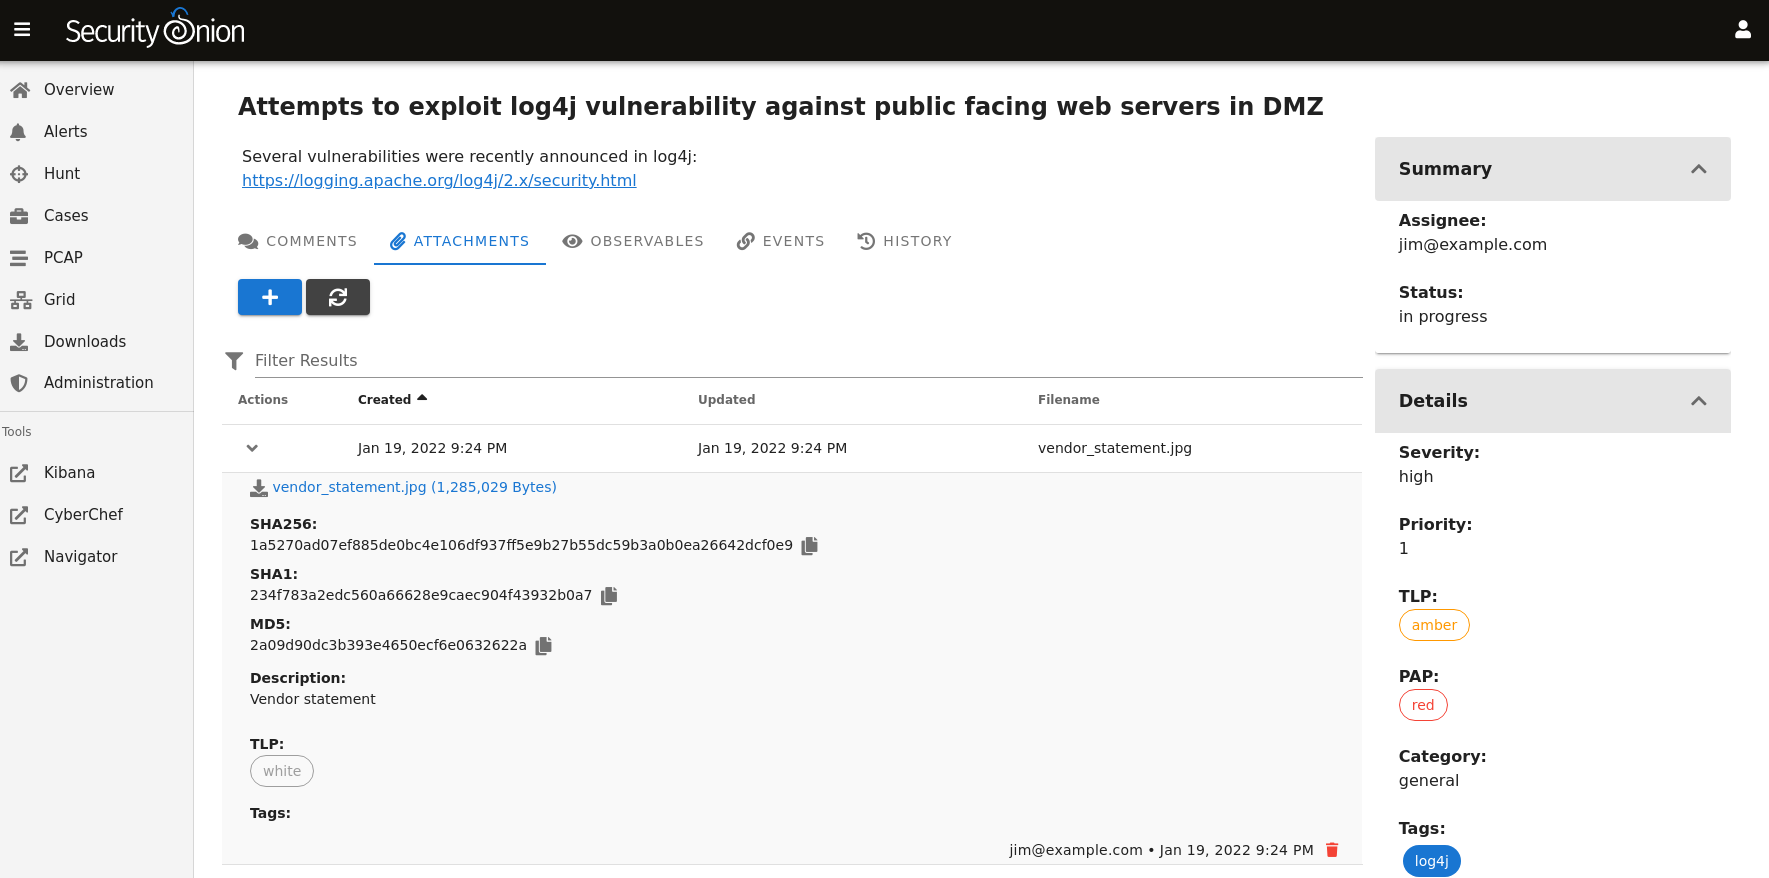
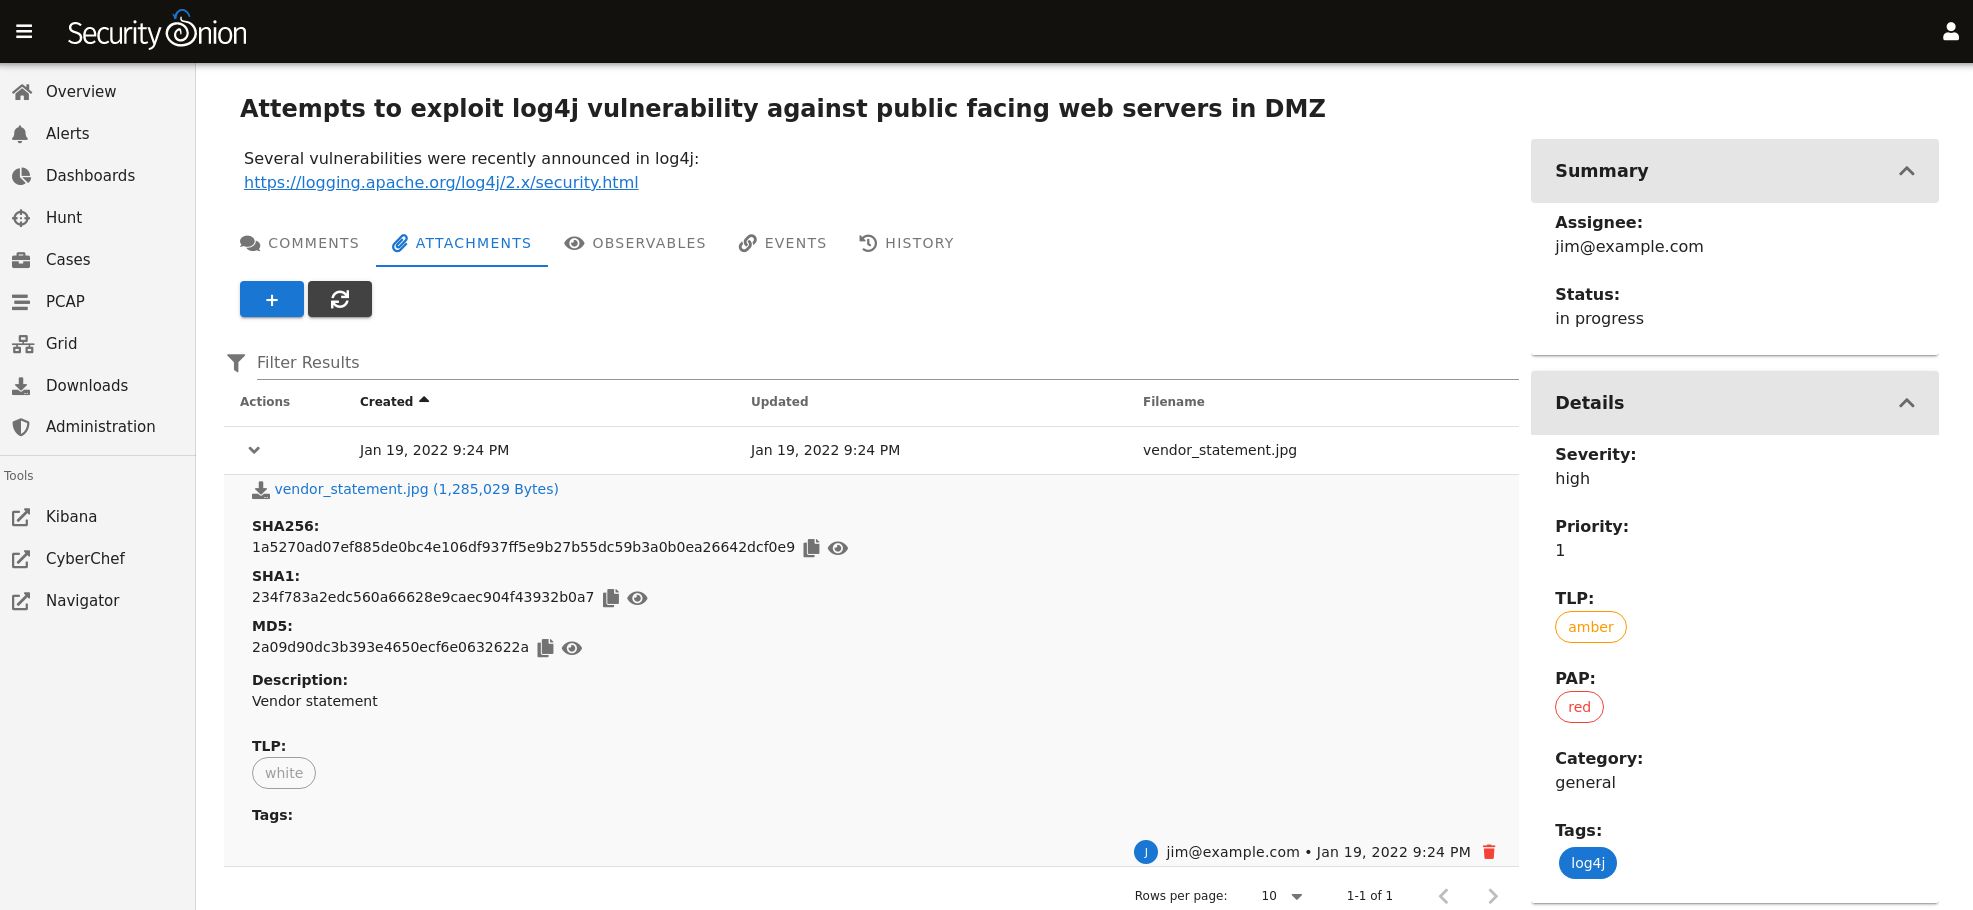
update for 2.3.130

diff --git a/soc-customization.rst b/soc-customization.rst
@@ -62,7 +62,7 @@ Then edit ``/opt/so/saltstack/local/salt/soc/files/soc/`` using your favorite te
 Action Menu
 -----------
 
-Both :ref:`alerts` and :ref:`hunt` have an action menu with several default actions. If you'd like to add your own custom HTTP GET or POST actions, you can copy ``/opt/so/saltstack/default/salt/soc/files/soc/menu.actions.json`` to ``/opt/so/saltstack/local/salt/soc/files/soc/menu.actions.json`` and then add new entries. (Previous to Security Onion 2.3.60, this would be done in ``alerts.actions.json`` or ``hunt.actions.json``.)
+:ref:`alerts`, :ref:`dashboards`, and :ref:`hunt` have an action menu with several default actions. If you'd like to add your own custom HTTP GET or POST actions, you can copy ``/opt/so/saltstack/default/salt/soc/files/soc/menu.actions.json`` to ``/opt/so/saltstack/local/salt/soc/files/soc/menu.actions.json`` and then add new entries. (Previous to Security Onion 2.3.60, this would be done in ``alerts.actions.json`` or ``hunt.actions.json``.)
 
 For example, suppose you want to add ``AbuseIPDB`` with URL ``https://www.abuseipdb.com/check/{value}``. First, copy ``/opt/so/saltstack/default/salt/soc/files/soc/menu.actions.json`` to ``/opt/so/saltstack/local/salt/soc/files/soc/menu.actions.json``:
 
@@ -121,7 +121,7 @@ Cases
 Escalation
 ----------
 
-In :ref:`alerts` and :ref:`hunt`, logs are shown with a blue triangle that allows you to escalate the event. Starting in Security Onion 2.3.100, this defaults to our new :ref:`cases` interface. If for some reason you want to escalate to a different case management system, you can change this setting. To do so, locate the ``soc`` :ref:`salt` pillar and then set ``case_module`` to one of the following values:
+:ref:`alerts`, :ref:`dashboards`, and :ref:`hunt` display logs with a blue triangle that allows you to escalate the event. Starting in Security Onion 2.3.100, this defaults to our new :ref:`cases` interface. If for some reason you want to escalate to a different case management system, you can change this setting. To do so, locate the ``soc`` :ref:`salt` pillar and then set ``case_module`` to one of the following values:
 
 - ``soc`` - Enables the new built-in Case Management, with the new Escalation menu (default).
 

diff --git a/cases.rst b/cases.rst
@@ -3,7 +3,7 @@
 Cases
 =====
 
-Starting in Security Onion 2.3.100, we have a new Cases interface for case management. It allows you to manage your cases from start to finish including escalating logs from :ref:`alerts` and :ref:`hunt`, assigning analysts, commenting, adding attachments, and tracking observables. Check out our Cases video at https://youtu.be/y_kr_hrtqVc!
+Starting in Security Onion 2.3.100, we have a new Cases interface for case management. It allows you to escalate logs from :ref:`alerts`, :ref:`dashboards`, and :ref:`hunt`, and then assign analysts, add comments and attachments, and track observables. Check out our Cases video at https://youtu.be/y_kr_hrtqVc!
 
 Installation
 ------------
@@ -44,7 +44,7 @@ On the Comments tab, you can add comments about the case. The Comments field use
 Attachments
 -----------
 
-On the Attachments tab, you can upload attachments. For each attachment, you can optionally define TLP and add tags. Cases will automatically generate SHA256, SHA1, and MD5 hash values for each attachment.
+On the Attachments tab, you can upload attachments. For each attachment, you can optionally define TLP and add tags. Cases will automatically generate SHA256, SHA1, and MD5 hash values for each attachment. Buttons next to the hash values allow you to copy the value or add it as an observable.
 
 .. image:: images/cases-attachments.png
   :target: _images/cases-attachments.png

diff --git a/soc.rst b/soc.rst
@@ -18,7 +18,7 @@ Once logged in, you'll notice the user menu in the upper right corner. This allo
 .. image:: images/soc-overview.png
   :target: _images/soc-overview.png
 
-On the left side of the page, you'll see links for analyst tools like :ref:`alerts`, :ref:`hunt`, :ref:`cases`, :ref:`pcap`, :ref:`kibana`, :ref:`cyberchef`, :ref:`playbook`, and :ref:`attack-navigator`. While :ref:`alerts`, :ref:`hunt`, :ref:`cases`, and :ref:`pcap` are native to SOC itself, the remaining tools are external and will spawn separate browser tabs.
+On the left side of the page, you'll see links for analyst tools like :ref:`alerts`, :ref:`dashboards`, :ref:`hunt`, :ref:`cases`, :ref:`pcap`, :ref:`kibana`, :ref:`cyberchef`, :ref:`playbook`, and :ref:`attack-navigator`. While :ref:`alerts`, :ref:`dashboards`, :ref:`hunt`, :ref:`cases`, and :ref:`pcap` are native to SOC itself, the remaining tools are external and will spawn separate browser tabs.
 
 If you'd like to customize SOC, please see the :ref:`soc-customization` section. If you'd like to learn more about SOC logs, please see the :ref:`soc-logs` section.
 
@@ -26,6 +26,7 @@ If you'd like to customize SOC, please see the :ref:`soc-customization` section.
    :maxdepth: 2
 
    alerts
+   dashboards
    hunt
    cases
    pcap

diff --git a/timezones.rst b/timezones.rst
@@ -5,4 +5,4 @@ UTC and Time Zones
 
 When you run Security Onion Setup, it sets the operating system timezone to UTC/GMT. Logging in UTC is considered a best practice across the cybersecurity industry because it makes it that much easier to correlate events across different systems, organizations, or time zones. Additionally, it avoids issues with time zones that have daylight savings time which would result in a one-hour time warp twice a year. 
 
-Web interfaces like :ref:`alerts`, :ref:`hunt`, and :ref:`kibana` should try to detect the timezone of your web browser and then render those UTC timestamps in local time. :ref:`alerts` and :ref:`hunt` allow you to manually set your timezone under Options.
+Web interfaces like :ref:`alerts`, :ref:`dashboards`, :ref:`hunt`, and :ref:`kibana` should try to detect the timezone of your web browser and then render those UTC timestamps in local time. :ref:`alerts`, :ref:`dashboards`, and :ref:`hunt` allow you to manually set your timezone under Options.

diff --git a/so-test.rst b/so-test.rst
@@ -61,4 +61,4 @@ so-test
     Retried packets (EAGAIN):  0
   Replay completed. Warnings shown above are typically expected.
 
-Once this completes, you can then go to :ref:`alerts` and :ref:`hunt` and review data there.
+Once this completes, you can then go to :ref:`alerts`, :ref:`dashboards`, and :ref:`hunt` to review data.
